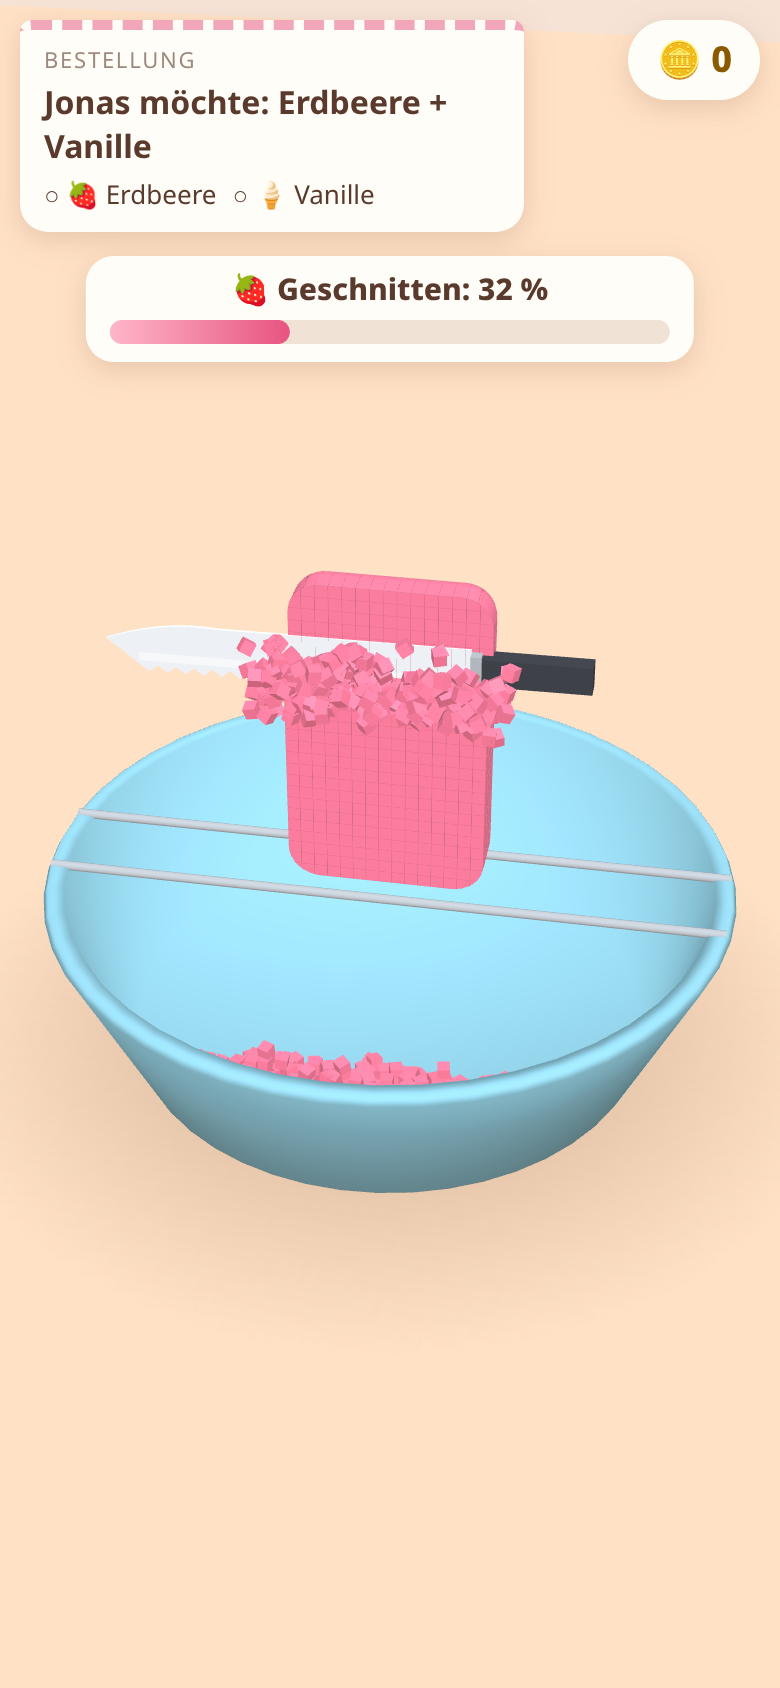
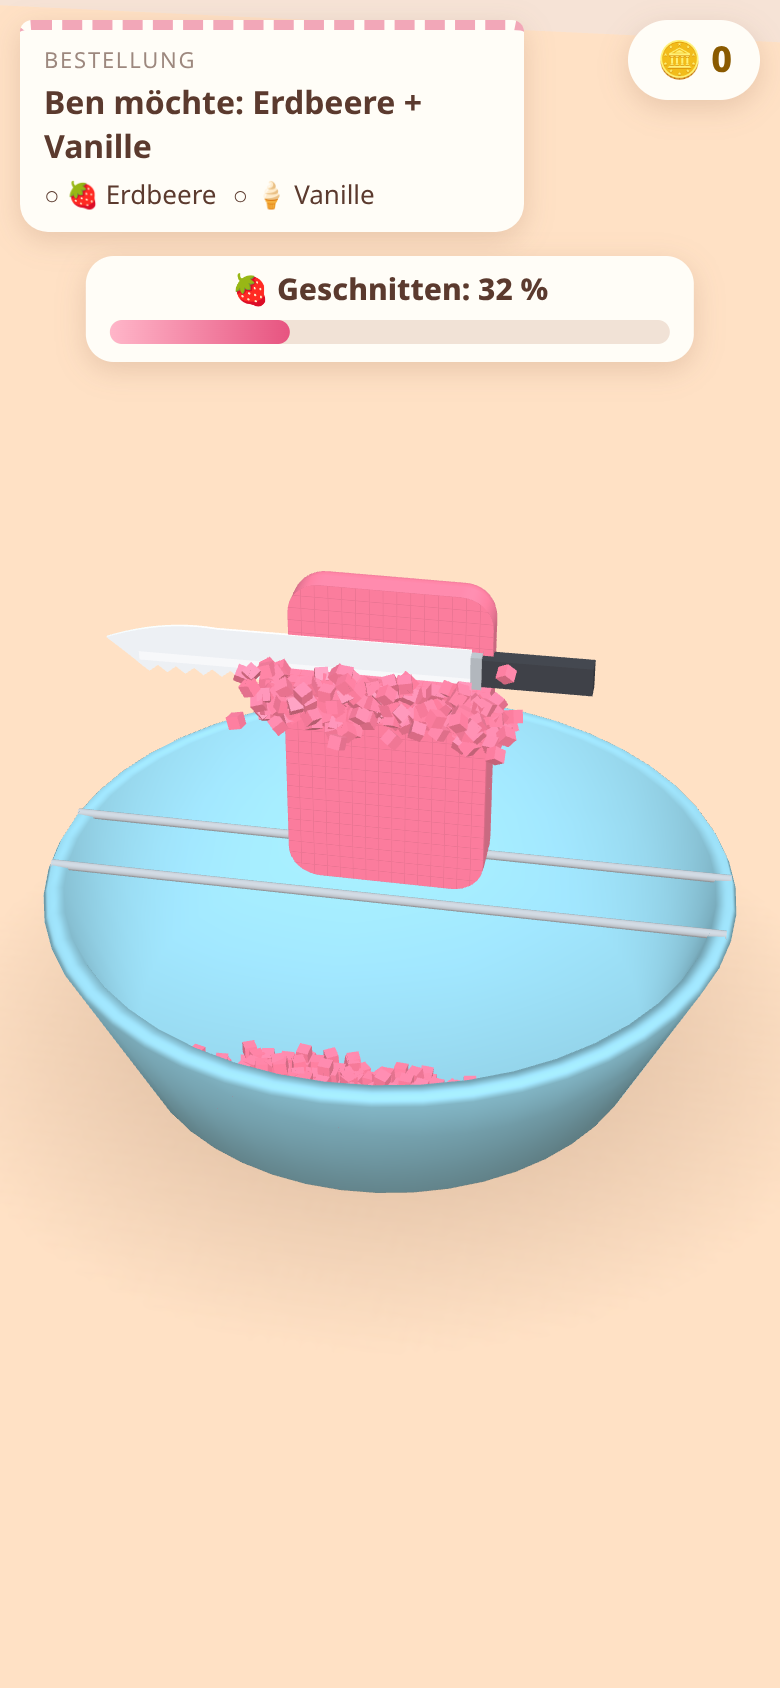
Seife mit Struktur: Kissen-Wölbung, eingepresste Mulde mit Blatt-Emblem und SEIFE-Prägung (Normalen-Relief), verdeckte Innenflächen ausgeblendet (keine Rasterlinien)

Changed region(s): [[0.2769, 0.3697, 0.6769, 0.4621], [0.0615, 0.0308, 0.5231, 0.0924], [0.3077, 0.6161, 0.5846, 0.6469]]

diff --git a/src/relief.js b/src/relief.js
@@ -1,0 +1,150 @@
+// Prägung der Seifen-Vorderseite (einmalig beim Start erzeugt, keine Kosten pro Frame).
+//
+// Eine echte gepresste Seife hat: einen glatten Rand, eine eingedrückte Mulde (Panel) mit
+// schrägen Wänden und darin eine erhabene Marke (Blatt-Emblem + Schriftzug "SEIFE").
+// Wir zeichnen das als Höhenkarte auf ein Canvas, weichzeichnen es (weiche Kanten wie
+// gepresste Seife) und speichern daraus die Steigungen (dh/dx, dh/dy) in einer Textur.
+// Der Seifen-Shader kippt damit nur die Normalen -> Relief entsteht allein durch Licht,
+// die Seife behält ihre eine Farbe. Die Textur gehört zur Außenhaut der vordersten
+// Würfel und verschwindet daher automatisch mit den abgeschnittenen Würfeln.
+import * as THREE from 'three';
+import { BLOCK, CUBE } from './config.js';
+
+export const RELIEF_SLOPE = 2.0; // max. kodierte Steigung (+-)
+
+export function makeReliefTexture() {
+  const faceW = BLOCK.nx * CUBE, faceH = BLOCK.ny * CUBE;   // Weltmaße der Vorderseite
+  const W = 300, H = Math.round(W * faceH / faceW);         // 300 x 480 Pixel
+  const px = faceW / W;                                      // Welt-Einheiten pro Pixel
+  const S = W / faceW;                                       // Pixel pro Welt-Einheit
+
+  const cv = document.createElement('canvas');
+  cv.width = W; cv.height = H;
+  const g = cv.getContext('2d', { willReadFrequently: true });
+
+  const rrect = (x, y, w, h, r) => {
+    g.beginPath();
+    g.moveTo(x + r, y); g.arcTo(x + w, y, x + w, y + h, r); g.arcTo(x + w, y + h, x, y + h, r);
+    g.arcTo(x, y + h, x, y, r); g.arcTo(x, y, x + w, y, r); g.closePath();
+  };
+  const layer = (draw) => {
+    g.setTransform(1, 0, 0, 1, 0, 0);
+    g.fillStyle = '#000'; g.fillRect(0, 0, W, H);
+    g.fillStyle = '#fff'; g.strokeStyle = '#fff';
+    draw();
+    g.setTransform(1, 0, 0, 1, 0, 0);
+    const d = g.getImageData(0, 0, W, H).data;
+    const out = new Float32Array(W * H);
+    for (let n = 0; n < W * H; n++) out[n] = d[n * 4] / 255;
+    return out;
+  };
+
+  // 1) Mulde: abgerundetes Rechteck, Abstand zum Rand ~0.075 Welt-Einheiten
+  const inset = 0.08 * S;
+  const panelX = inset, panelY = inset * 1.05, panelW = W - 2 * inset, panelH = H - 2 * inset * 1.05;
+  const panel = layer(() => { rrect(panelX, panelY, panelW, panelH, 0.075 * S); g.fill(); });
+
+  // 2) Marke in der Mulde: feiner Zierrahmen, Blatt-Emblem, Schriftzug, kleine Unterzeile
+  const cx = W / 2;
+  const mark = layer(() => {
+    // Zierrahmen (dünne erhabene Linie innen entlang der Mulde)
+    const fi = 0.03 * S;
+    g.lineWidth = 0.011 * S;
+    rrect(panelX + fi, panelY + fi, panelW - 2 * fi, panelH - 2 * fi, 0.05 * S); g.stroke();
+
+    // Blatt-Emblem (zwei Blätter + Stiel), obere Hälfte
+    const ey = H * 0.36, leaf = 0.13 * S;
+    for (const side of [-1, 1]) {
+      g.save();
+      g.translate(cx, ey + leaf * 0.35);
+      g.rotate(side * 0.62);
+      g.beginPath();
+      g.moveTo(0, 0);
+      g.quadraticCurveTo(side * leaf * 0.55, -leaf * 0.55, 0, -leaf * 1.25);
+      g.quadraticCurveTo(-side * leaf * 0.55, -leaf * 0.55, 0, 0);
+      g.fill();
+      g.restore();
+    }
+    // mittleres, größeres Blatt
+    g.beginPath();
+    g.moveTo(cx, ey + leaf * 0.45);
+    g.quadraticCurveTo(cx + leaf * 0.62, ey - leaf * 0.5, cx, ey - leaf * 1.35);
+    g.quadraticCurveTo(cx - leaf * 0.62, ey - leaf * 0.5, cx, ey + leaf * 0.45);
+    g.fill();
+    // Stiel
+    g.lineWidth = 0.012 * S; g.lineCap = 'round';
+    g.beginPath(); g.moveTo(cx, ey + leaf * 0.35); g.lineTo(cx, ey + leaf * 0.85); g.stroke();
+
+    // Schriftzug
+    g.textAlign = 'center'; g.textBaseline = 'middle';
+    g.font = `800 ${Math.round(0.135 * S)}px "Trebuchet MS", "Arial Rounded MT Bold", Verdana, sans-serif`;
+    g.fillText('SEIFE', cx, H * 0.6);
+    // Trennlinie + Unterzeile
+    g.lineWidth = 0.008 * S;
+    g.beginPath(); g.moveTo(cx - 0.12 * S, H * 0.675); g.lineTo(cx + 0.12 * S, H * 0.675); g.stroke();
+    g.font = `700 ${Math.round(0.058 * S)}px "Trebuchet MS", Verdana, sans-serif`;
+    g.fillText('HANDGEMACHT', cx, H * 0.73);
+  });
+
+  // weiche Kanten (wie gepresste Seife): mehrfacher Box-Blur, einmalig
+  blur(panel, W, H, Math.round(0.012 * S), 3);
+  blur(mark, W, H, Math.max(1, Math.round(0.004 * S)), 2);
+
+  // Höhe in Welt-Einheiten: Mulde 1.4 cm-Modell (0.014), Marke ragt fast bis Randhöhe hoch
+  const DEPTH = 0.016, MARK = 0.011;
+  const h = new Float32Array(W * H);
+  for (let n = 0; n < W * H; n++) h[n] = -DEPTH * panel[n] + MARK * mark[n] * panel[n];
+
+  // Steigungen per zentraler Differenz -> RGBA8 (R = dh/dx, G = dh/dy, B = Muldentiefe für Licht-Verdeckung)
+  const data = new Uint8Array(W * H * 4);
+  for (let y = 0; y < H; y++) for (let x = 0; x < W; x++) {
+    const n = y * W + x;
+    const xl = x > 0 ? n - 1 : n, xr = x < W - 1 ? n + 1 : n;
+    const yu = y > 0 ? n - W : n, yd = y < H - 1 ? n + W : n;
+    const gx = (h[xr] - h[xl]) / ((xr - xl) * px || 1);
+    // Canvas-y zeigt nach unten, Welt-y nach oben
+    const gy = -(h[yd] - h[yu]) / ((yd - yu) / W * px || 1);
+    // Textur-Zeile 0 = unten (Welt), Canvas-Zeile 0 = oben -> beim Schreiben spiegeln
+    const o = ((H - 1 - y) * W + x) * 4;
+    data[o] = enc(gx); data[o + 1] = enc(gy);
+    data[o + 2] = Math.round(THREE.MathUtils.clamp(-h[n] / DEPTH, 0, 1) * 255);
+    data[o + 3] = 255;
+  }
+  const tex = new THREE.DataTexture(data, W, H, THREE.RGBAFormat);
+  tex.colorSpace = THREE.NoColorSpace;
+  tex.magFilter = THREE.LinearFilter;
+  tex.minFilter = THREE.LinearMipmapLinearFilter;
+  tex.generateMipmaps = true;
+  tex.wrapS = tex.wrapT = THREE.ClampToEdgeWrapping;
+  tex.needsUpdate = true;
+  return tex;
+}
+
+function enc(v) {
+  return Math.round(THREE.MathUtils.clamp(0.5 + v / (2 * RELIEF_SLOPE), 0, 1) * 255);
+}
+
+/** Separierbarer Box-Blur (in-place), `passes` Durchläufe ~ Gauß. */
+function blur(a, W, H, r, passes) {
+  if (r < 1) return;
+  const tmp = new Float32Array(a.length);
+  const k = 1 / (2 * r + 1);
+  for (let p = 0; p < passes; p++) {
+    for (let y = 0; y < H; y++) {
+      let s = 0;
+      for (let x = -r; x <= r; x++) s += a[y * W + Math.min(W - 1, Math.max(0, x))];
+      for (let x = 0; x < W; x++) {
+        tmp[y * W + x] = s * k;
+        s += a[y * W + Math.min(W - 1, x + r + 1)] - a[y * W + Math.max(0, x - r)];
+      }
+    }
+    for (let x = 0; x < W; x++) {
+      let s = 0;
+      for (let y = -r; y <= r; y++) s += tmp[Math.min(H - 1, Math.max(0, y)) * W + x];
+      for (let y = 0; y < H; y++) {
+        a[y * W + x] = s * k;
+        s += tmp[Math.min(H - 1, y + r + 1) * W + x] - tmp[Math.max(0, y - r) * W + x];
+      }
+    }
+  }
+}

diff --git a/src/soapMaterial.js b/src/soapMaterial.js
@@ -8,8 +8,13 @@
 //  * Außenflächen bekommen glatte Normalen (wirkt wie eine durchgehende Seifenoberfläche).
 //  * Innen-/Schnittflächen behalten flache Würfel-Normalen und eine feine dunkle Fuge
 //    -> an der Schnittfläche sieht man die Würfelstruktur.
+//  * Vorderseite: leicht gewölbt ("Kissen"-Form, echte Geometrie) und mit eingepresster
+//    Marke (Mulde + Blatt + "SEIFE") per Steigungs-Textur, die nur die Normalen kippt.
+//    Die Farbe bleibt einheitlich; das Relief sitzt auf der Außenhaut der vordersten
+//    Würfel und verschwindet mit ihnen beim Schneiden.
 import * as THREE from 'three';
-import { BLOCK, CUBE, BLOCK_BASE_Y, SOAP_RADIUS } from './config.js';
+import { BLOCK, CUBE, BLOCK_BASE_Y, SOAP_RADIUS, SOAP_BULGE } from './config.js';
+import { makeReliefTexture, RELIEF_SLOPE } from './relief.js';
 
 export function createBlockMaterial() {
   const mat = new THREE.MeshStandardMaterial({ roughness: 0.42, metalness: 0, envMapIntensity: 0.7 });
@@ -17,17 +22,21 @@ export function createBlockMaterial() {
     uHalf: { value: new THREE.Vector3(BLOCK.nx * CUBE / 2, BLOCK.ny * CUBE / 2, BLOCK.nz * CUBE / 2) },
     uCenter: { value: new THREE.Vector3(0, BLOCK_BASE_Y + BLOCK.ny * CUBE / 2, 0) },
     uRadius: { value: SOAP_RADIUS },
+    uBulge: { value: SOAP_BULGE },
+    uRelief: { value: makeReliefTexture() },
+    uReliefSlope: { value: RELIEF_SLOPE },
   };
   mat.onBeforeCompile = (shader) => {
     Object.assign(shader.uniforms, uniforms);
     shader.vertexShader = shader.vertexShader
       .replace('#include <common>', `#include <common>
-        uniform vec3 uHalf; uniform vec3 uCenter; uniform float uRadius;
-        varying float vShell; varying vec2 vCubeUv;`)
+        uniform vec3 uHalf; uniform vec3 uCenter; uniform float uRadius; uniform float uBulge;
+        attribute float aHidden;
+        varying float vShell; varying float vFront; varying vec2 vCubeUv; varying vec2 vFaceUv;`)
       .replace('#include <beginnormal_vertex>', `
         vec3 objectNormal = normal;
         vec3 roundedLocal = position;
-        vShell = 0.0; vCubeUv = uv;
+        vShell = 0.0; vFront = 0.0; vCubeUv = uv; vFaceUv = vec2(0.5);
         float sc = length(instanceMatrix[0].xyz);
         if (sc > 1e-6) {
           vec3 t = instanceMatrix[3].xyz;
@@ -41,17 +50,48 @@ export function createBlockMaterial() {
           float pa = an.x > 0.5 ? p.x * normal.x : (an.y > 0.5 ? p.y * normal.y : p.z * normal.z);
           float ha = an.x > 0.5 ? uHalf.x : (an.y > 0.5 ? uHalf.y : uHalf.z);
           if (pa > ha - 0.002) { vShell = 1.0; if (dl > 1e-5) objectNormal = d / dl; }
+          bool onFront = p.z > uHalf.z - 0.002;            // Vertex liegt auf der Vorderseite
+          if (vShell > 0.5 && normal.z > 0.5) { vFront = 1.0; vFaceUv = p.xy / (2.0 * uHalf.xy) + 0.5; }
           if (dl > uRadius) p = q + d / dl * uRadius;    // Ecken abrunden
+          if (onFront) {
+            // Kissen-Wölbung der Vorderseite (zur Mitte hin leicht nach vorne)
+            vec2 f = clamp(p.xy / uHalf.xy, -1.0, 1.0);
+            vec2 w = 1.0 - f * f;
+            p.z += uBulge * w.x * w.y;
+            if (vShell > 0.5) {
+              vec2 dz = uBulge * vec2(-2.0 * f.x / uHalf.x * w.y, -2.0 * f.y / uHalf.y * w.x);
+              objectNormal = normalize(objectNormal - vec3(dz, 0.0) * max(objectNormal.z, 0.0));
+            }
+          }
           roundedLocal = (p + uCenter - t) / sc;
+          // Verdeckte Innenfläche (Nachbarwürfel liegt direkt davor)? -> zu einem Punkt zusammenfallen
+          // lassen. Spart Pixel-Arbeit und verhindert feine Rasterlinien auf der Außenhaut.
+          float bit = an.x > 0.5 ? (normal.x > 0.0 ? 1.0 : 2.0)
+                    : an.y > 0.5 ? (normal.y > 0.0 ? 4.0 : 8.0)
+                    : (normal.z > 0.0 ? 16.0 : 32.0);
+          if (mod(floor(aHidden / bit + 0.001), 2.0) > 0.5) roundedLocal = vec3(0.0);
         }`)
       .replace('#include <begin_vertex>', 'vec3 transformed = roundedLocal;');
     shader.fragmentShader = shader.fragmentShader
       .replace('#include <common>', `#include <common>
-        varying float vShell; varying vec2 vCubeUv;`)
+        uniform sampler2D uRelief; uniform float uReliefSlope;
+        varying float vShell; varying float vFront; varying vec2 vCubeUv; varying vec2 vFaceUv;`)
       .replace('#include <color_fragment>', `#include <color_fragment>
+        vec4 rel = vec4(0.5, 0.5, 0.0, 1.0);
+        if (vFront > 0.5) rel = texture2D(uRelief, vFaceUv);
+        // ganz leichte Licht-Verdeckung tief in der Mulde (Umgebungslicht kommt schlechter hinein)
+        diffuseColor.rgb *= 1.0 - 0.05 * rel.b;
         // feine Fuge nur auf Schnitt-/Innenflächen
         float e = min(min(vCubeUv.x, 1.0 - vCubeUv.x), min(vCubeUv.y, 1.0 - vCubeUv.y));
-        diffuseColor.rgb *= mix(1.0, 0.86, (1.0 - smoothstep(0.0, 0.07, e)) * (1.0 - vShell));`);
+        diffuseColor.rgb *= mix(1.0, 0.86, (1.0 - smoothstep(0.0, 0.07, e)) * (1.0 - vShell));`)
+      .replace('#include <normal_fragment_begin>', `#include <normal_fragment_begin>
+        if (vFront > 0.5) {
+          // Steigungen der Prägung (Welt-Einheiten) -> Normale kippen (Vorderseite liegt in der xy-Ebene)
+          vec2 gr = (rel.rg * 2.0 - 1.0) * uReliefSlope;
+          vec3 tX = normalize((viewMatrix * vec4(1.0, 0.0, 0.0, 0.0)).xyz);
+          vec3 tY = normalize((viewMatrix * vec4(0.0, 1.0, 0.0, 0.0)).xyz);
+          normal = normalize(normal - gr.x * tX - gr.y * tY);
+        }`);
   };
   return mat;
 }

diff --git a/src/soapBlock.js b/src/soapBlock.js
@@ -21,6 +21,11 @@ export class SoapBlock {
     for (let n = 0; n < this.count; n++) this.mesh.setColorAt(n, _c.set(1, 1, 1));
     scene.add(this.mesh);
 
+    // Pro Würfel: Bitmaske der Seiten, vor denen direkt ein Nachbarwürfel liegt
+    // (+x 1, -x 2, +y 4, -y 8, +z 16, -z 32). Der Shader blendet diese Innenflächen aus.
+    this.hidden = new THREE.InstancedBufferAttribute(new Float32Array(this.count), 1);
+    this.hidden.setUsage(THREE.DynamicDrawUsage);
+    geometry.setAttribute('aHidden', this.hidden);
     this.released = new Uint8Array(this.count);
     this.colors = new Float32Array(this.count * 3); // lineare RGB pro Würfel
     this.slice = -1;          // aktuelle (vorderste) Scheibe in z, die geschnitten wird
@@ -53,6 +58,12 @@ export class SoapBlock {
       this.mesh.setColorAt(n, _c);
       this.colors[n * 3] = _c.r; this.colors[n * 3 + 1] = _c.g; this.colors[n * 3 + 2] = _c.b;
     }
+    const h = this.hidden.array;
+    for (let j = 0; j < ny; j++) for (let k = 0; k < nz; k++) for (let i = 0; i < nx; i++) {
+      h[this.index(i, j, k)] = (i < nx - 1 ? 1 : 0) | (i > 0 ? 2 : 0) | (j < ny - 1 ? 4 : 0)
+        | (j > 0 ? 8 : 0) | (k < nz - 1 ? 16 : 0) | (k > 0 ? 32 : 0);
+    }
+    this.hidden.needsUpdate = true;
     this.mesh.instanceMatrix.needsUpdate = true;
     this.mesh.instanceColor.needsUpdate = true;
     this.slice = SLICES - 1;  // SLICES-1 = Kamera-Seite (vorne)
@@ -91,14 +102,26 @@ export class SoapBlock {
         this.released[idx] = 1;
         this.releasedCount++;
         this.mesh.setMatrixAt(idx, _zero);
+        this.uncover(i, j, k);
         onCube(this.cubeX(i), this.cubeY(j), this.cubeZ(k),
           this.colors[idx * 3], this.colors[idx * 3 + 1], this.colors[idx * 3 + 2], this.soap.id);
         n++;
       }
       this.rowsCut++;
     }
-    if (n) this.mesh.instanceMatrix.needsUpdate = true;
+    if (n) { this.mesh.instanceMatrix.needsUpdate = true; this.hidden.needsUpdate = true; }
     return n;
+  }
+
+  /** Würfel (i,j,k) ist weg: die zu ihm zeigenden Flächen der Nachbarn werden sichtbar. */
+  uncover(i, j, k) {
+    const { nx, ny, nz } = BLOCK, h = this.hidden.array;
+    if (i > 0) h[this.index(i - 1, j, k)] &= ~1;
+    if (i < nx - 1) h[this.index(i + 1, j, k)] &= ~2;
+    if (j > 0) h[this.index(i, j - 1, k)] &= ~4;
+    if (j < ny - 1) h[this.index(i, j + 1, k)] &= ~8;
+    if (k > 0) h[this.index(i, j, k - 1)] &= ~16;
+    if (k < nz - 1) h[this.index(i, j, k + 1)] &= ~32;
   }
 
   /** Rest der Scheibe lösen und zur nächsten Scheibe dahinter wechseln. true = Block ist weg. */

diff --git a/src/config.js b/src/config.js
@@ -10,6 +10,7 @@ export const BLOCK = { nx: 15, ny: 24, nz: 8 };
 export const SLICES = 4;
 export const SLICE_DEPTH = BLOCK.nz / SLICES;   // Würfel pro Scheibe in z
 export const SOAP_RADIUS = 0.12;    // Rundung der Kanten/Ecken des Seifenstücks
+export const SOAP_BULGE = 0.03;     // Kissen-Wölbung der Vorderseite (Mitte steht so weit vor)
 
 // Schale (Form): innerer Boden bei y = 0
 export const BOWL = {
